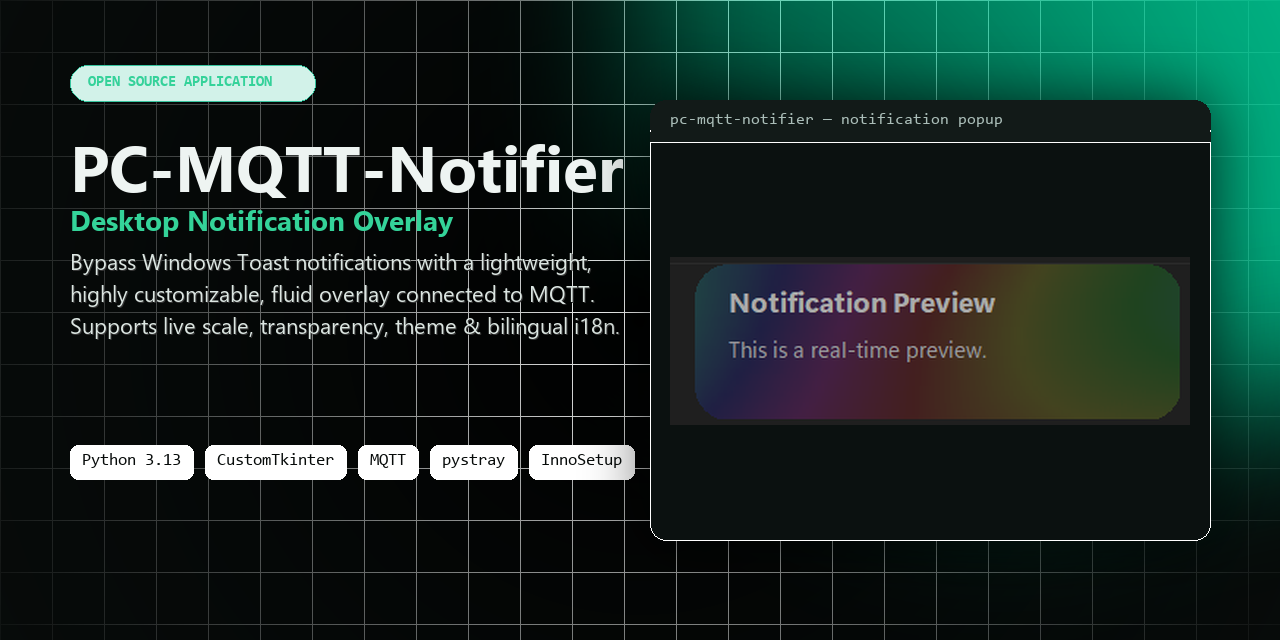
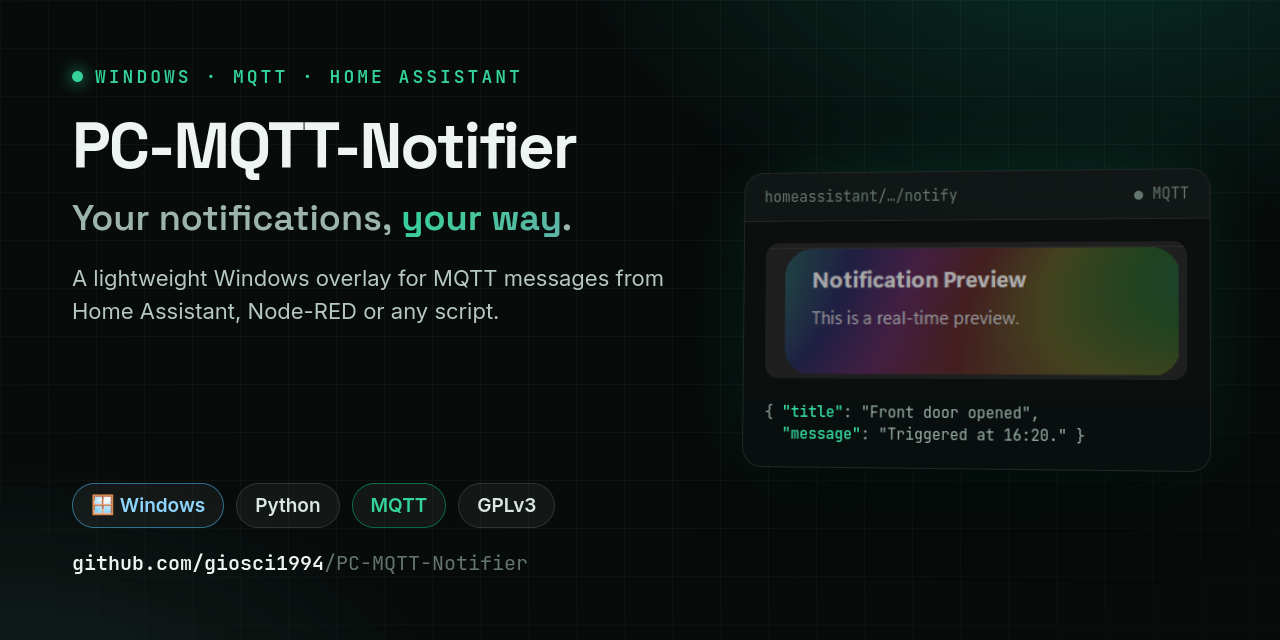
English-only README, SHA256SUMS and VERIFY.ps1 in releases, social preview source
- README: drop the Italian half, link the landing page, explain how to verify downloads.
- Release workflow: also publish SHA256SUMS.txt and VERIFY.ps1 (from the next release).
- Landing: remove the Light button, the page has no light theme.
- docs/social-preview.html: source of the social preview, Arborae style; PNG regenerated.

Claude-Session: https://claude.ai/code/session_01P3PuAEpoSMBHddf1ZE2k7F

diff --git a/docs/social-preview.html b/docs/social-preview.html
@@ -1,0 +1,165 @@
+<!doctype html>
+<!-- Source of docs/social-preview.png (1280x640), the GitHub social preview.
+     Regenerate (Firefox, any OS), from the folder of this file:
+       firefox --headless --window-size=1280,640 --screenshot social-preview.png social-preview.html
+     Same design system as the other projects (Arborae palette, Space Grotesk / Inter / JetBrains Mono). -->
+<html lang="en">
+
+<head>
+  <meta charset="utf-8" />
+  <link rel="preconnect" href="https://fonts.googleapis.com">
+  <link rel="preconnect" href="https://fonts.gstatic.com" crossorigin>
+  <link
+    href="https://fonts.googleapis.com/css2?family=Space+Grotesk:wght@500;600;700&family=Inter:wght@400;500;600&family=JetBrains+Mono:wght@400;600&display=swap"
+    rel="stylesheet">
+  <style>
+    * { margin: 0; padding: 0; box-sizing: border-box; }
+
+    html, body { width: 1280px; height: 640px; overflow: hidden; }
+
+    body {
+      font-family: "Inter", "Segoe UI", system-ui, sans-serif;
+      color: #eef4f2;
+      background:
+        radial-gradient(900px 560px at 85% -15%, rgba(0, 181, 133, 0.22), transparent 60%),
+        radial-gradient(800px 520px at 0% 120%, rgba(95, 179, 166, 0.14), transparent 60%),
+        #070b0a;
+      position: relative;
+    }
+
+    body::before {
+      content: "";
+      position: absolute; inset: 0;
+      background-image:
+        linear-gradient(rgba(255, 255, 255, 0.03) 1px, transparent 1px),
+        linear-gradient(90deg, rgba(255, 255, 255, 0.03) 1px, transparent 1px);
+      background-size: 48px 48px;
+      mask-image: radial-gradient(1000px 620px at 50% 30%, #000 50%, transparent 100%);
+    }
+
+    .wrap {
+      position: relative;
+      height: 100%;
+      padding: 64px 72px;
+      display: grid;
+      grid-template-columns: 1fr 470px;
+      gap: 48px;
+    }
+
+    .left { display: flex; flex-direction: column; }
+
+    .kicker {
+      display: inline-flex; align-items: center; gap: 12px;
+      font-family: "JetBrains Mono", Consolas, monospace;
+      font-size: 18px; font-weight: 600;
+      letter-spacing: 3px; text-transform: uppercase;
+      color: #34d399;
+    }
+    .kicker .dot { width: 11px; height: 11px; border-radius: 50%; background: #34d399; box-shadow: 0 0 16px #34d399; }
+
+    h1 {
+      margin-top: 26px;
+      font-family: "Space Grotesk", "Segoe UI", sans-serif;
+      font-size: 78px; font-weight: 700;
+      line-height: 1; letter-spacing: -2px;
+    }
+
+    .sub {
+      margin-top: 18px;
+      font-family: "Space Grotesk", "Segoe UI", sans-serif;
+      font-size: 36px; font-weight: 600;
+      color: #9db3ad; line-height: 1.2;
+    }
+    .sub b {
+      background: linear-gradient(120deg, #34d399, #5fb3a6);
+      -webkit-background-clip: text; background-clip: text; color: transparent;
+    }
+
+    .desc {
+      margin-top: 22px;
+      max-width: 600px;
+      font-size: 22px; line-height: 1.5;
+      color: #b6c8c2;
+    }
+
+    .bottom { margin-top: auto; }
+
+    .badges { display: flex; gap: 12px; flex-wrap: wrap; }
+    .badge {
+      padding: 10px 18px;
+      font-size: 19px; font-weight: 600;
+      border-radius: 999px;
+      background: rgba(255, 255, 255, 0.05);
+      border: 1px solid rgba(255, 255, 255, 0.12);
+      color: #dbe7e3;
+    }
+    .badge.win { border-color: rgba(76, 194, 255, 0.5); color: #8fd6ff; }
+    .badge.green { border-color: rgba(0, 181, 133, 0.5); color: #34d399; }
+
+    .repo {
+      margin-top: 22px;
+      font-family: "JetBrains Mono", Consolas, monospace;
+      font-size: 20px; color: #64756f;
+    }
+    .repo b { color: #eef4f2; font-weight: 600; }
+
+    .right { display: flex; align-items: center; }
+
+    .window {
+      width: 100%;
+      background: rgba(10, 16, 15, 0.92);
+      border: 1px solid rgba(255, 255, 255, 0.1);
+      border-radius: 20px;
+      overflow: hidden;
+      box-shadow: 0 40px 80px -24px rgba(0, 0, 0, 0.7), 0 0 90px -30px rgba(0, 181, 133, 0.35);
+      transform: perspective(1400px) rotateY(-6deg) rotateX(2deg);
+    }
+
+    .bar {
+      display: flex; justify-content: space-between; align-items: center;
+      padding: 14px 20px;
+      background: rgba(255, 255, 255, 0.03);
+      border-bottom: 1px solid rgba(255, 255, 255, 0.08);
+      font-family: "JetBrains Mono", Consolas, monospace;
+      font-size: 15px; color: #64756f;
+    }
+
+
+    .shot { display:block; width:100%; padding:22px; background:#0b0f0e; } .shot img { display:block; width:100%; border-radius:14px; }
+    .payload { padding: 0 22px 22px; font-family:'JetBrains Mono',monospace; font-size:15px; color:#9db3ad; line-height:1.5; } .payload b { color:#34d399; font-weight:600; }
+    h1 { font-size: 64px; white-space: nowrap; }
+  </style>
+</head>
+
+<body>
+  <div class="wrap">
+    <div class="left">
+      <span class="kicker"><span class="dot"></span> Windows · MQTT · Home Assistant</span>
+      <h1>PC-MQTT-Notifier</h1>
+      <div class="sub">Your notifications, <b>your way</b>.</div>
+      <div class="desc">
+        A lightweight Windows overlay for MQTT messages from Home Assistant, Node-RED or any script.
+      </div>
+
+      <div class="bottom">
+        <div class="badges">
+          <span class="badge win">🪟 Windows</span>
+          <span class="badge ">Python</span>
+          <span class="badge green">MQTT</span>
+          <span class="badge ">GPLv3</span>
+        </div>
+        <div class="repo"><b>github.com/giosci1994</b>/PC-MQTT-Notifier</div>
+      </div>
+    </div>
+
+    <div class="right">
+      <div class="window">
+        <div class="bar"><span>homeassistant/…/notify</span><span>● MQTT</span></div>
+        <div class="shot"><img src="dark_pop-up_fluid.png" alt="" /></div>
+        <div class="payload">{ <b>"title"</b>: "Front door opened",<br>&nbsp;&nbsp;<b>"message"</b>: "Triggered at 16:20." }</div>
+      </div>
+    </div>
+  </div>
+</body>
+
+</html>

diff --git a/docs/js/main.js b/docs/js/main.js
@@ -1,23 +1,5 @@
 document.addEventListener('DOMContentLoaded', () => {
-  // 1. Theme Toggle
-  const themeToggle = document.getElementById('theme-toggle');
-  const root = document.documentElement;
-
-  if (themeToggle) {
-    let isLight = false;
-    themeToggle.addEventListener('click', () => {
-      isLight = !isLight;
-      if (isLight) {
-        root.classList.add('light');
-        themeToggle.textContent = '🌙 Dark';
-      } else {
-        root.classList.remove('light');
-        themeToggle.textContent = '☀ Light';
-      }
-    });
-  }
-
-  // 2. Language Toggle
+  // 1. Language Toggle
   const langToggle = document.getElementById('lang-toggle');
   if (langToggle) {
     let isItalian = false;
@@ -37,7 +19,7 @@ document.addEventListener('DOMContentLoaded', () => {
     });
   }
 
-  // 3. Scroll Reveal Animation (Arborae Standard)
+  // 2. Scroll Reveal Animation (Arborae Standard)
   const reduceMotion = window.matchMedia('(prefers-reduced-motion: reduce)').matches;
   const reveals = document.querySelectorAll('.reveal');
 

diff --git a/docs/index.html b/docs/index.html
@@ -49,7 +49,6 @@
 
       <div class="nav-cta">
         <button id="lang-toggle" class="btn ghost small">🇮🇹 IT</button>
-        <button id="theme-toggle" class="btn ghost small">☀ Light</button>
         <a class="btn primary small" href="https://github.com/giosci1994/PC-MQTT-Notifier" target="_blank"
           rel="noreferrer">GitHub</a>
       </div>

diff --git a/README.md b/README.md
@@ -2,7 +2,7 @@
 
 **Bypass Windows Toast. Own your notifications with a lightweight, highly customizable, fluid overlay connected to MQTT.**
 
-**🇬🇧 English** · [🇮🇹 Italiano](#italiano)
+### 🌐 [giosci1994.github.io/PC-MQTT-Notifier](https://giosci1994.github.io/PC-MQTT-Notifier/)
 
 Listen to any **MQTT topic** (from Home Assistant, Node-RED, or custom scripts) and display sleek, non-invasive desktop notifications with animated fluid backgrounds on Windows.
 
@@ -55,6 +55,16 @@ Listen to any **MQTT topic** (from Home Assistant, Node-RED, or custom scripts) 
 ### Option 2: Portable Executable
 1. Download `PC-MQTT-Notifier.exe` from the Releases page.
 2. Run it anywhere on your system without installation.
+
+### Verify the download
+From the next release, every release also has `SHA256SUMS.txt` and `VERIFY.ps1`. Put them in the
+same folder as the downloaded `.exe` and run, in PowerShell:
+
+```powershell
+powershell -ExecutionPolicy Bypass -File .\VERIFY.ps1
+# or by hand, then compare with SHA256SUMS.txt:
+Get-FileHash .\PC-MQTT-Notifier-Setup-1.0.0.exe -Algorithm SHA256
+```
 
 ---
 
@@ -129,6 +139,7 @@ PC-MQTT-Notifier/
 ├── config.json              # Saved configuration settings
 ├── icon.png / icon.ico      # Application icons
 ├── setup.iss                # InnoSetup installer configuration
+├── scripts/VERIFY.ps1       # Checks downloads against SHA256SUMS.txt (shipped with each release)
 ├── locales/                 # i18n translation files
 │   ├── en.json              # English locale
 │   └── it.json              # Italian locale
@@ -136,6 +147,7 @@ PC-MQTT-Notifier/
 │   ├── index.html           # Arborae-standard landing page
 │   ├── css/style.css        # Stylesheet & design system
 │   ├── js/main.js           # Scroll reveal & toggle scripts
+│   ├── social-preview.html  # Source of the social preview (Firefox headless screenshot)
 │   └── social-preview.png   # 1280x640 social preview image
 └── .github/
     └── workflows/
@@ -162,88 +174,3 @@ If PC-MQTT-Notifier is useful to you, you can buy me a coffee.
 Distributed under the **GPLv3 License**. See [`LICENSE`](LICENSE) for more information.
 
 Developed with ❤ by **[giosci1994](https://github.com/giosci1994)** / **Arborae**.
-
-<br>
-
----
----
-
-<a id="italiano"></a>
-
-# 🇮🇹 Italiano
-
-**Supera le notifiche native di Windows. Gestisci le tue notifiche con un'overlay fluttuante, leggero e personalizzabile collegato via MQTT.**
-
-Ascolta qualsiasi **topic MQTT** (da Home Assistant, Node-RED o script custom) e mostra notifiche desktop eleganti con sfondi animati a gradiente su Windows.
-
----
-
-## ✨ Funzionalità
-
-- 🌊 **Sfondo Fluido Animato**: Sfondi animati a gradiente basati sulle curve di Lissajous. Consumo CPU azzerato in modalità statica.
-- 🎨 **Altamente Personalizzabile**: Regola la scala dell'interfaccia, la trasparenza, il raggio degli angoli, gli FPS dell'animazione e la posizione sullo schermo (in alto al centro, in basso a destra, ecc.).
-- 🌍 **Multilingua Nativo (i18n)**: Traduzione completa in Italiano e Inglese. Aggiungi nuove lingue inserendo un semplice file JSON nella cartella `locales/`.
-- ⚙ **Integrazione System Tray**: Gira silenziosamente nella tray di Windows con menu di impostazioni ed anteprima istantanea.
-- 🔄 **Auto-Updater da GitHub**: Sistema integrato di controllo aggiornamenti che ti avvisa ed installa l'ultima versione `.exe` in un click.
-- 🔌 **Pronto per Home Assistant & MQTT**: Riceve payload JSON standard da Home Assistant, Node-RED o qualsiasi broker MQTT locale.
-
----
-
-## ⚙ Formato Payload MQTT
-
-L'applicazione si iscrive al topic specificato (default: `homeassistant/pc_giovanni/notify`).
-
-### 📩 Esempio Payload JSON
-```json
-{
-  "title": "Porta Principale Aperta",
-  "message": "Il sensore dell'ingresso è stato attivato alle 16:20."
-}
-```
-
-### 🏠 Esempio Automazione Home Assistant
-```yaml
-action: mqtt.publish
-data:
-  topic: homeassistant/pc_giovanni/notify
-  payload: >-
-    {
-      "title": "Picco Fotovoltaico",
-      "message": "La produzione dei pannelli ha superato 4.5 kW!"
-    }
-```
-
----
-
-## 🛠 Sviluppo & Compilazione
-
-```bash
-# Clonazione repository
-git clone https://github.com/giosci1994/PC-MQTT-Notifier.git
-cd PC-MQTT-Notifier
-
-# Installazione dipendenze
-pip install -r requirements.txt
-
-# Avvio applicazione
-python main.py
-
-# Compilazione Eseguibile
-pyinstaller --noconsole --onefile --icon=icon.ico --name="PC-MQTT-Notifier" main.py
-```
-
-Per compilare l'installer Windows `.exe`, usa **Inno Setup 6** sul file `setup.iss`.
-
----
-
-## ☕ Supporta il progetto
-
-Se PC-MQTT-Notifier ti è utile, puoi offrirmi un caffè.
-
-<a href="https://buymeacoffee.com/giosci1994u"><img src="https://cdn.buymeacoffee.com/buttons/v2/default-yellow.png" height="45" alt="Buy Me a Coffee" /></a>
-
-## 📄 Licenza
-
-Distribuito sotto licenza **GPLv3**. Vedi [`LICENSE`](LICENSE) per ulteriori informazioni.
-
-Sviluppato con ❤ da **[giosci1994](https://github.com/giosci1994)** / **Arborae**.
